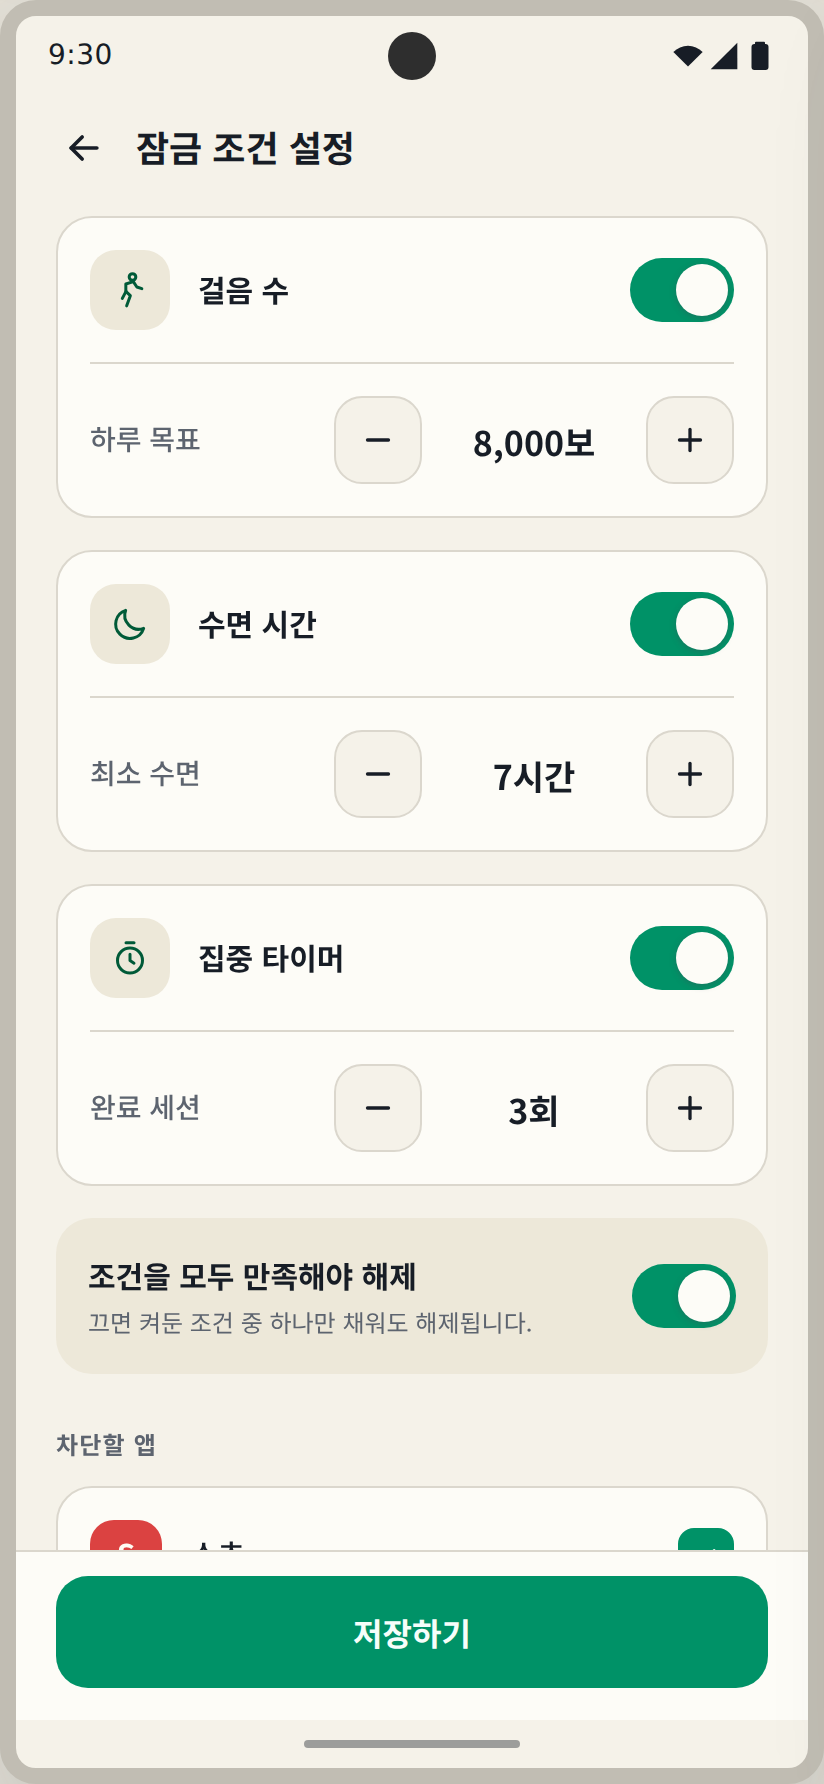
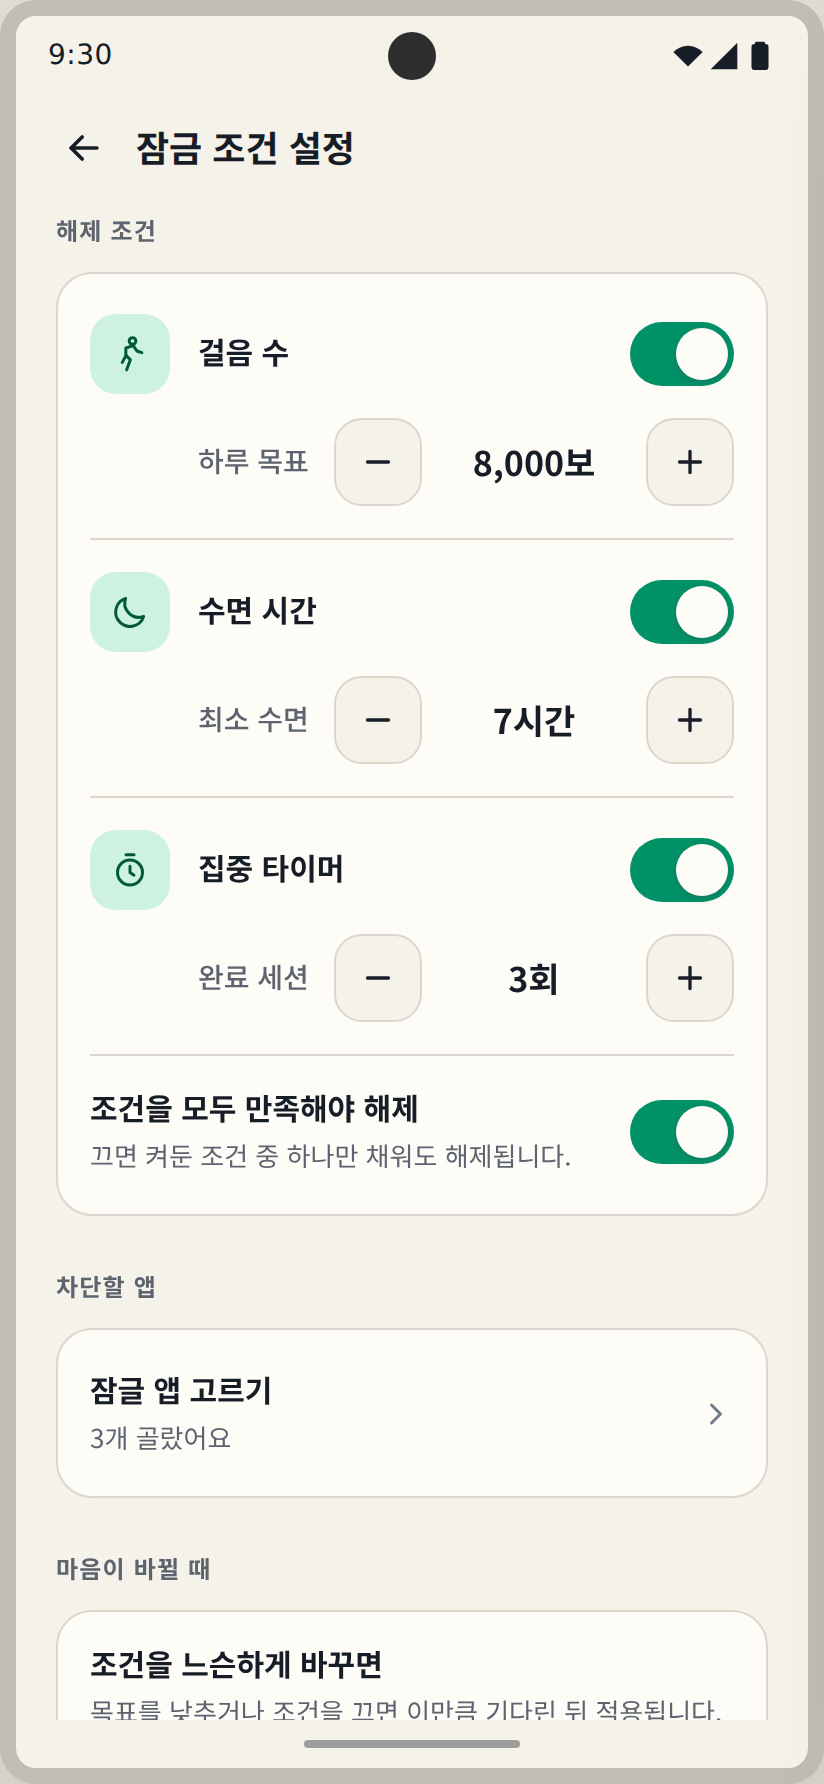
README 화면 이미지를 지금 코드에 맞게 다시 렌더
온보딩(권한 한 화면), 홈(실제 앱 목록·관리 링크), 설정(조건 한 패널, 저장
버튼 없음), 잠금(집중 타이머로 가기), 집중 타이머(도는 중엔 처음부터 다시 숨김),
통계(연속 달성 제목), 완화 대기(계정 아래로)를 새로 찍고, 잠글 앱 고르기
화면을 추가했습니다. 앱 아이콘은 상표를 흉내 내지 않은 자리표시자라고 캡션에
적었습니다.

Claude-Session: https://claude.ai/code/session_01TfDVSB28YoT3k36WsBEoLF

diff --git a/README.md b/README.md
@@ -18,10 +18,13 @@
   <img src="docs/screens/01-login.png" width="22%" alt="로그인" />
   <img src="docs/screens/02-onboarding.png" width="22%" alt="온보딩" />
   <img src="docs/screens/04-settings.png" width="22%" alt="잠금 조건 설정" />
+  <img src="docs/screens/09-app-picker.png" width="22%" alt="잠글 앱 고르기" />
+</p>
+<p align="center">
   <img src="docs/screens/06-pomodoro.png" width="22%" alt="집중 타이머" />
 </p>
 
-<p align="center"><sub>412×892 프레임 · 구현과 같은 OKLCH 토큰·간격·아이콘으로 렌더한 이미지입니다 (실기기 캡처가 아닙니다)</sub></p>
+<p align="center"><sub>412×892 프레임 · 구현과 같은 OKLCH 토큰·간격·아이콘으로 렌더한 이미지입니다 (실기기 캡처가 아닙니다).<br>앱 아이콘 자리는 첫 글자 자리표시자이며, 실제 앱은 기기에 깔린 각 앱의 아이콘을 보여 줍니다</sub></p>
 
 ## 캐릭터
 
@@ -76,7 +79,8 @@
 | **Pomodoro** | 25분 집중 세션 타이머. 세션이 도는 동안 캐릭터가 앉습니다 | [`PomodoroScreen.kt`](app/src/main/java/com/steplock/app/ui/screens/PomodoroScreen.kt) |
 | **Stats** | 7일 / 30일 전환, 걸음 차트와 요약 3칸, 조건별 일평균과 달성률 | [`StatsScreen.kt`](app/src/main/java/com/steplock/app/ui/screens/StatsScreen.kt) |
 
-화면 이동: `Login → Onboarding → Home`, 홈에서 설정 · 집중 타이머 · 잠금 오버레이로 들어갑니다.
+화면 이동: `Login → Onboarding → Home`, 홈에서 설정 · 집중 타이머 · 잠글 앱 고르기로 들어갑니다.
+잠금 화면은 감시 서비스가 차단 앱 위에 띄우며, 거기서 집중 타이머로 바로 넘어갈 수 있습니다.
 하단 탭은 홈 · 통계 · 설정이고, 온보딩을 마친 기기는 다음 실행부터 로그인을 건너뛰고 홈에서 시작합니다.
 
 각 화면 파일 하단에 `@Preview`가 있어 Android Studio에서 412×892 프레임으로 바로 확인할 수 있습니다.
